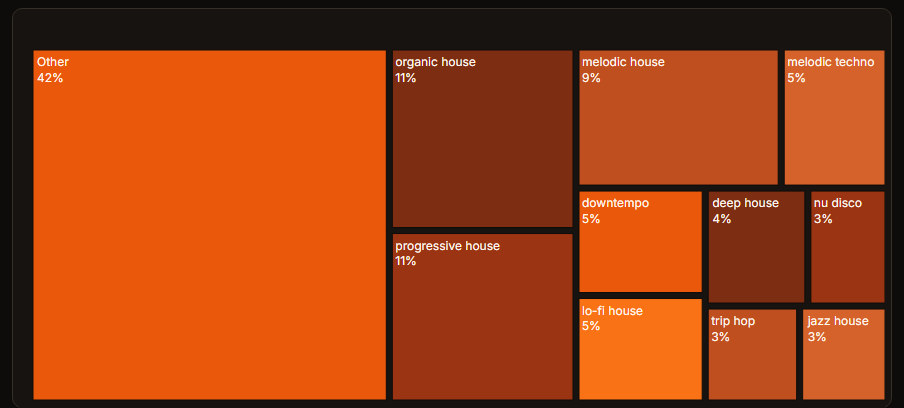
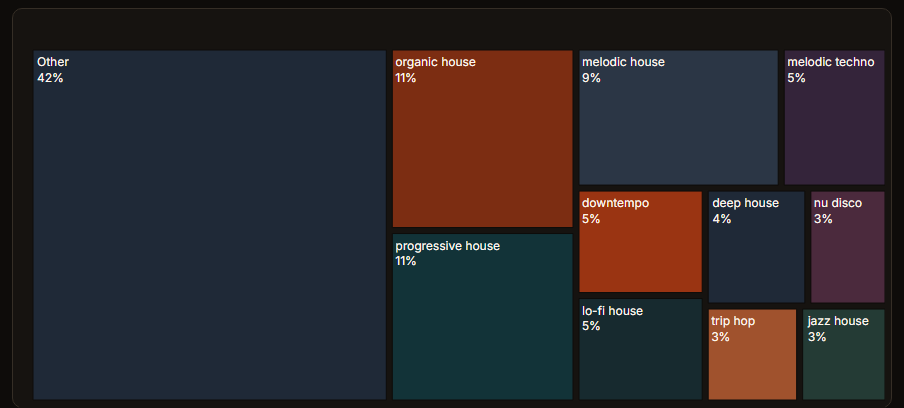
Fix treemap palette and hero readability.
Curate interleaved ember/petrol/slate/plum genre colors with neutral Other bucket; lift interpretation and stat card contrast; recapture README assets.

diff --git a/app.py b/app.py
@@ -31,6 +31,9 @@ SURFACE = "#161310"
 BORDER = "#352e26"
 TEXT = "#fff8f0"
 MUTED = "#a08b78"
+BODY_TEXT = "#d4c8bc"
+STAT_LABEL = "#b8a898"
+BORDER_STRONG = "#4a4038"
 ACCENT = "#ea580c"
 ACCENT_DEEP = "#7c2d12"
 ACCENT_GLOW = "#f97316"
@@ -39,21 +42,34 @@ PEACH = "#f0dcc8"
 CREAM = "#fff8f0"
 BAR_LOW = "#431407"
 BAR_HIGH = "#ea580c"
+# Interleaved: ember → petrol → slate → plum — adjacent cells get different families.
 GENRE_PALETTE = [
     "#7c2d12",
+    "#123338",
+    "#2b3645",
+    "#34243a",
     "#9a3412",
+    "#172a2f",
+    "#1f2937",
+    "#4b2a3d",
+    "#a0522d",
+    "#243b35",
+    "#162235",
+    "#5c3d4a",
     "#bf4f1f",
-    "#d4622a",
-    "#ea580c",
-    "#f97316",
+    "#1d3f45",
+    "#3d4451",
+    "#431407",
+    "#2f3f3a",
 ]
+OTHER_COLOR = "#1f2937"
 
 PAGE_CSS = f"""
 <style>
 @import url('https://fonts.googleapis.com/css2?family=Inter:wght@400;500;600&display=swap');
 .stApp {{
     background:
-        radial-gradient(ellipse 90% 55% at 18% -15%, rgba(234, 88, 12, 0.10) 0%, transparent 55%),
+        radial-gradient(ellipse 90% 55% at 18% -15%, rgba(234, 88, 12, 0.06) 0%, transparent 55%),
         {BG};
     color: {TEXT};
 }}
@@ -108,7 +124,7 @@ div[data-testid="stVerticalBlock"] > div[data-testid="stVerticalBlock"] {{
     max-width: 50rem;
 }}
 .interpretation {{
-    color: {MUTED};
+    color: {BODY_TEXT};
     font-size: 0.98rem;
     line-height: 1.65;
     max-width: 52rem;
@@ -163,13 +179,13 @@ div[data-testid="stVerticalBlock"] > div[data-testid="stVerticalBlock"] {{
     .stat-value {{ font-size: 1rem; }}
 }}
 .stat {{
-    background: rgba(20, 18, 16, 0.92);
-    border: 1px solid {BORDER};
+    background: {SURFACE};
+    border: 1px solid {BORDER_STRONG};
     border-radius: 10px;
     padding: 0.75rem 0.9rem;
 }}
 .stat-label {{
-    color: {MUTED};
+    color: {STAT_LABEL};
     font-size: 0.58rem;
     text-transform: uppercase;
     letter-spacing: 0.14em;
@@ -185,7 +201,7 @@ div[data-testid="stVerticalBlock"] > div[data-testid="stVerticalBlock"] {{
     font-size: 0.65rem;
     text-transform: uppercase;
     letter-spacing: 0.22em;
-    color: {ACCENT_GLOW};
+    color: {AMBER};
     margin-bottom: 0.45rem;
 }}
 .section-label {{
@@ -463,7 +479,12 @@ def genre_treemap(profile):
             genres.append("Other")
             counts.append(other_count)
 
-    colors = [GENRE_PALETTE[i % len(GENRE_PALETTE)] for i in range(len(genres))]
+    colors = []
+    for i, genre in enumerate(genres):
+        if genre == "Other":
+            colors.append(OTHER_COLOR)
+        else:
+            colors.append(GENRE_PALETTE[i % len(GENRE_PALETTE)])
 
     fig = go.Figure(
         go.Treemap(